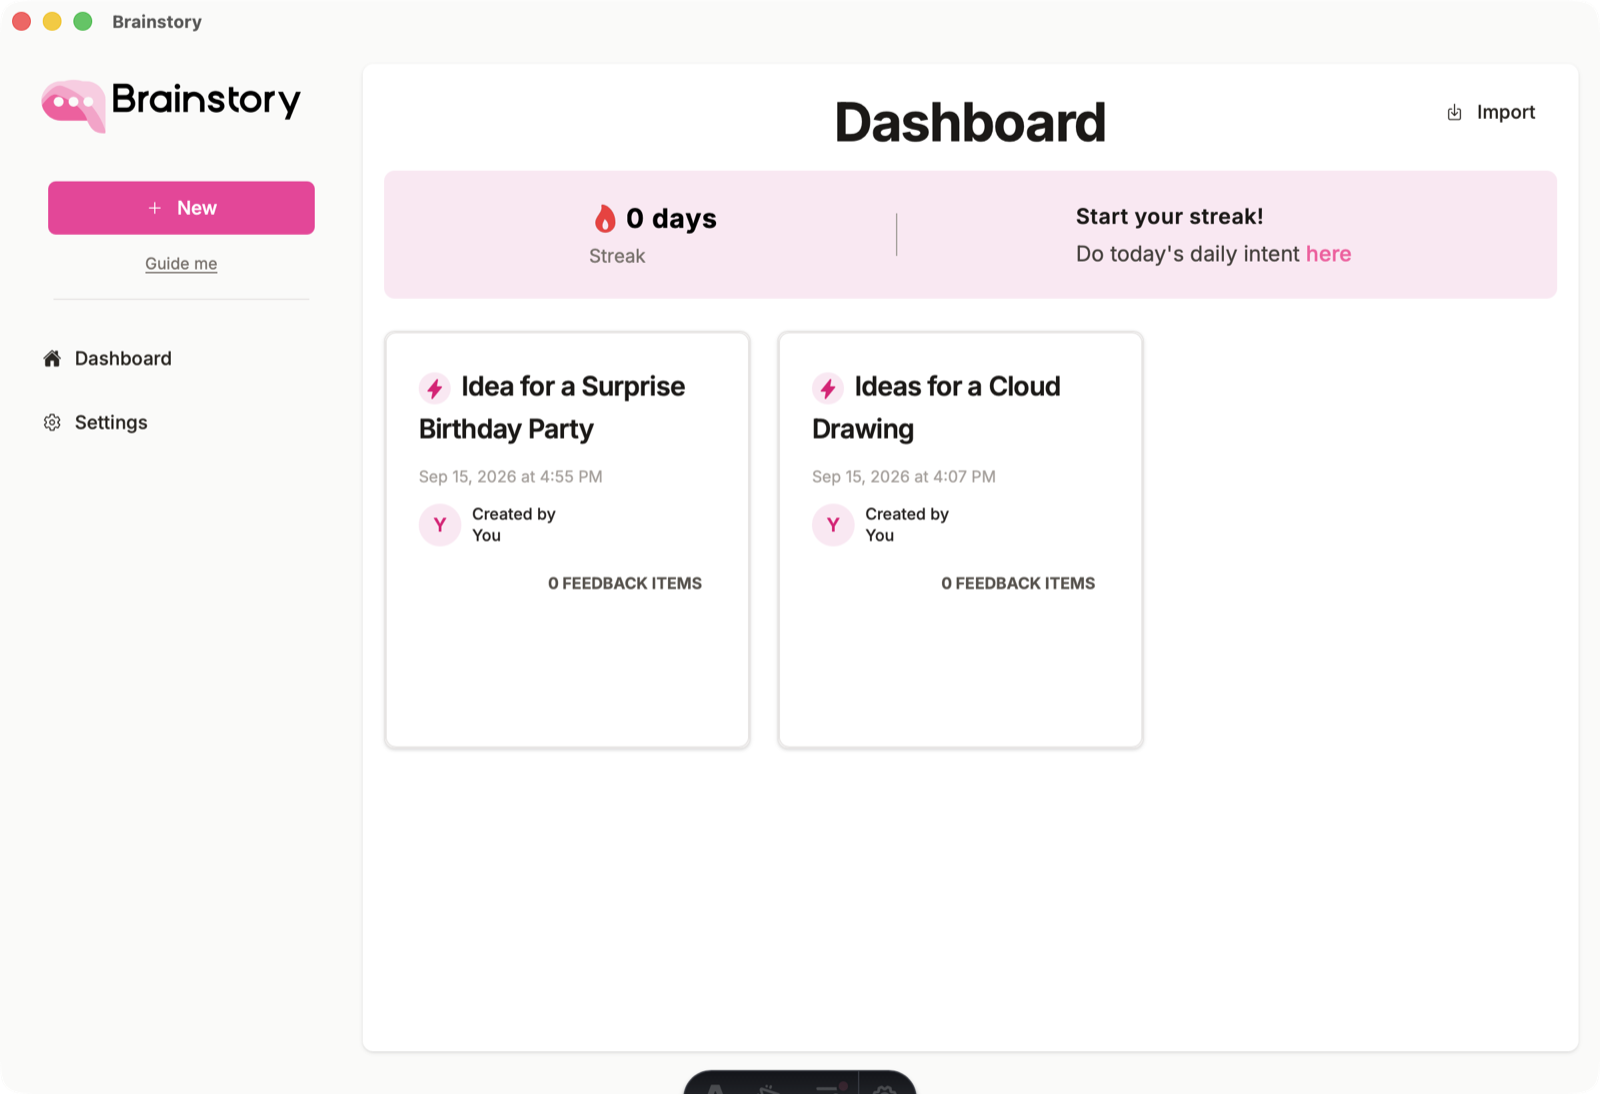
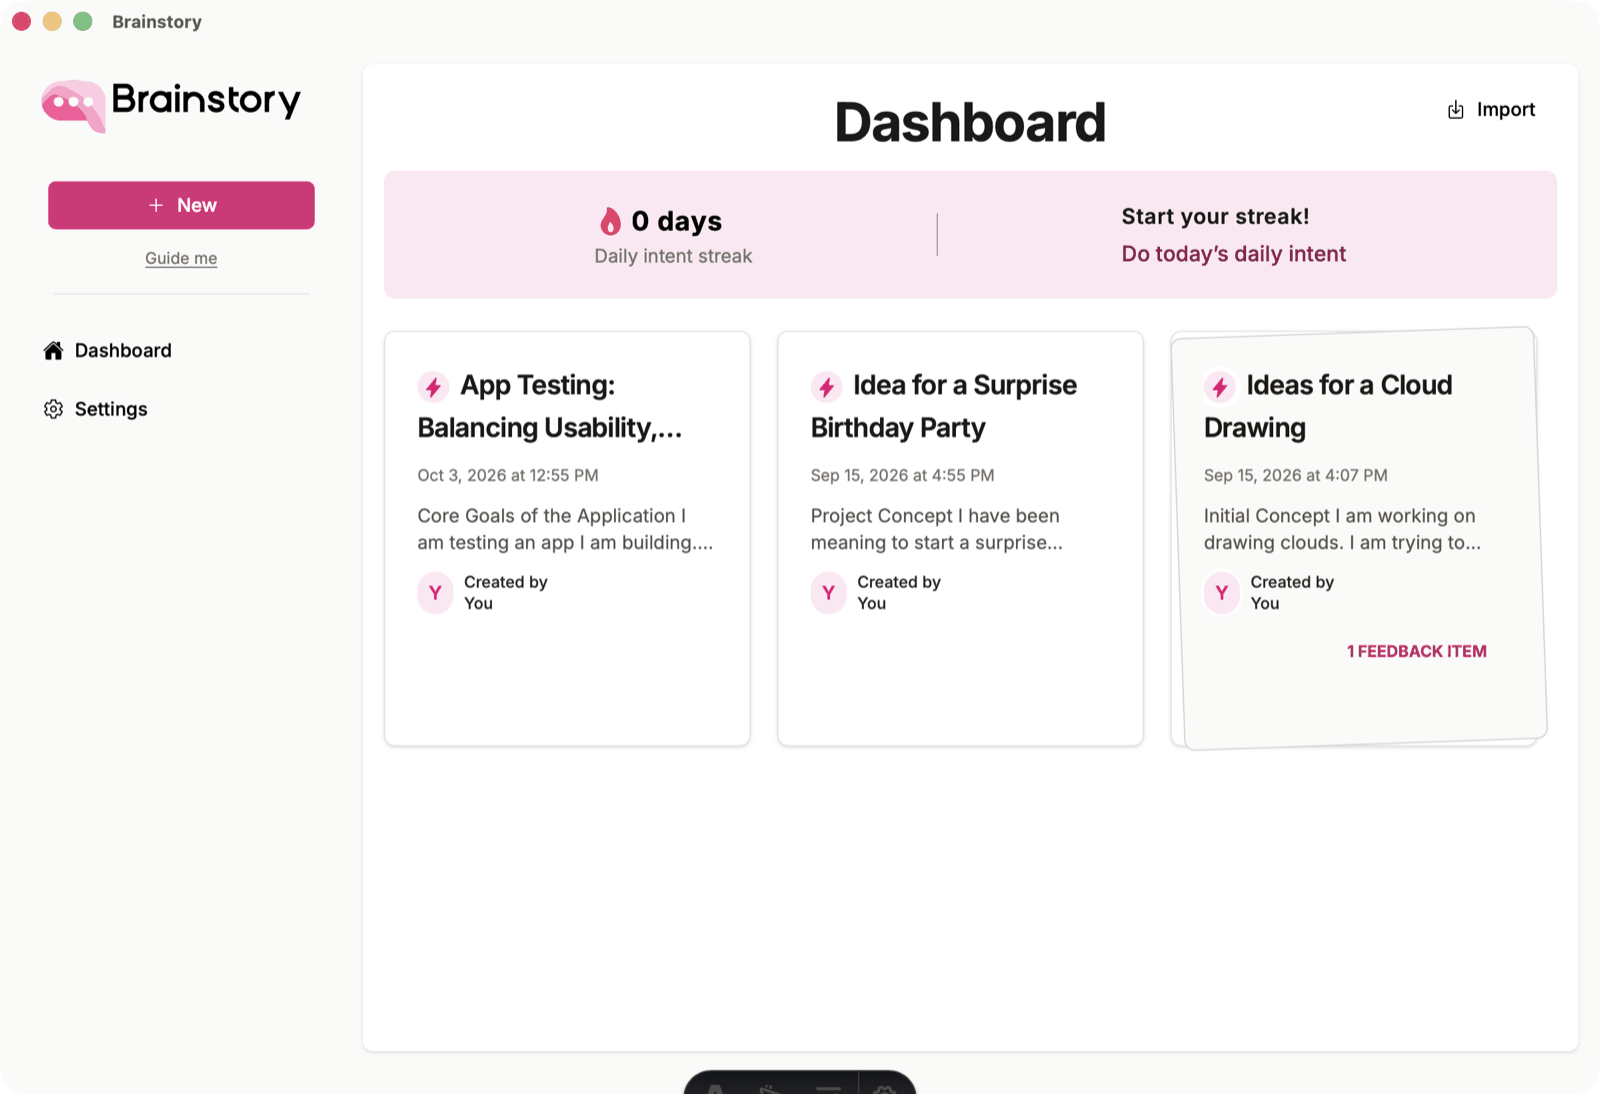
Fix the idea card wrapper and refresh the README screenshot
Each idea card rendered three nested boxes that all carried the card's
border and background; when a grid row stretched the shorter cards,
their inner bordered wrapper stopped short of the bottom and left an
empty outlined strip below the content. The card is one box now - the
article carries the chrome, and the opaque z-10 body keeps the
feedback-stack sheets behind the content. The README screenshot is
recaptured from the fixed UI and quantized to a 256-color PNG
(265 KB -> 82 KB, visually identical for flat UI).

diff --git a/src/components/idea/IdeaCard.tsx b/src/components/idea/IdeaCard.tsx
@@ -62,55 +62,58 @@ export default function IdeaCard({
 				</span>
 			)}
 			<FeedbackStack feedback={feedbackList} />
-			<div className="relative bg-white border border-stone-200 rounded-lg">
-				<div className={`${cardHeight} p-6 rounded-lg`}>
-					<div>
-						{isFeedback && (
-							<span className="inline-block py-1 mb-3 text-pink-600 font-semibold tracking-wide uppercase">
-								Feedback
-							</span>
-						)}
+			{/* one card box: the article above carries the border, shadow and
+			 * min-height, and stretches with the grid row - nested bordered
+			 * wrappers used to stop short of the bottom on shorter cards.
+			 * Opaque white + z-10 keeps this body painted above the absolutely
+			 * positioned stack sheets behind it, which peek out at the edges */}
+			<div className={`relative z-10 rounded-lg bg-white ${cardHeight} p-6`}>
+				<div>
+					{isFeedback && (
+						<span className="inline-block py-1 mb-3 text-pink-600 font-semibold tracking-wide uppercase">
+							Feedback
+						</span>
+					)}
 
-						<h3 className="h-[64px] text-xl font-semibold tracking-tight text-stone-900 line-clamp-2 mb-3">
-							<PinkIcon shared={shared} />
-							<a
-								href={`/idea?id=${id}`}
-								className="after:absolute after:inset-0 after:rounded-lg"
-							>
-								{title}
-							</a>
-						</h3>
+					<h3 className="h-[64px] text-xl font-semibold tracking-tight text-stone-900 line-clamp-2 mb-3">
+						<PinkIcon shared={shared} />
+						<a
+							href={`/idea?id=${id}`}
+							className="after:absolute after:inset-0 after:rounded-lg"
+						>
+							{title}
+						</a>
+					</h3>
 
-						<p className="mb-3 text-xs text-stone-500">{humanReadableDate}</p>
+					<p className="mb-3 text-xs text-stone-500">{humanReadableDate}</p>
 
-						{preview && (
-							<p className="mb-3 text-sm text-stone-600 line-clamp-2">{preview}</p>
-						)}
+					{preview && (
+						<p className="mb-3 text-sm text-stone-600 line-clamp-2">{preview}</p>
+					)}
 
-						<div className="group mb-4 flex items-center">
-							<div className="flex items-center justify-center h-8 w-8 rounded-full ring-2 ring-white mr-2 bg-pink-100 text-pink-600 text-sm font-semibold">
-								{(creatorName || "You").trim().charAt(0).toUpperCase()}
-							</div>
-							<div className="w-full truncate">
-								<p className="text-xs font-medium text-stone-800">Created by</p>
-								<p className="text-xs font-medium text-stone-800 truncate">
-									{creatorName || "You"}
-								</p>
-							</div>
+					<div className="group mb-4 flex items-center">
+						<div className="flex items-center justify-center h-8 w-8 rounded-full ring-2 ring-white mr-2 bg-pink-100 text-pink-600 text-sm font-semibold">
+							{(creatorName || "You").trim().charAt(0).toUpperCase()}
+						</div>
+						<div className="w-full truncate">
+							<p className="text-xs font-medium text-stone-800">Created by</p>
+							<p className="text-xs font-medium text-stone-800 truncate">
+								{creatorName || "You"}
+							</p>
 						</div>
 					</div>
-					{!isFeedback && feedbackList.length > 0 && (
-						<div className="flex justify-end mt-4">
-							<a
-								href={`/idea?id=${id}&tab=feedback`}
-								className="relative z-10 hover:underline font-bold w-[130px] text-center text-accent-700 uppercase p-1 text-xs rounded-full"
-							>
-								{feedbackList.length}{" "}
-								{feedbackList.length > 1 ? "feedback items" : "feedback item"}
-							</a>
-						</div>
-					)}
 				</div>
+				{!isFeedback && feedbackList.length > 0 && (
+					<div className="flex justify-end mt-4">
+						<a
+							href={`/idea?id=${id}&tab=feedback`}
+							className="relative z-10 hover:underline font-bold w-[130px] text-center text-accent-700 uppercase p-1 text-xs rounded-full"
+						>
+							{feedbackList.length}{" "}
+							{feedbackList.length > 1 ? "feedback items" : "feedback item"}
+						</a>
+					</div>
+				)}
 			</div>
 		</article>
 	);
